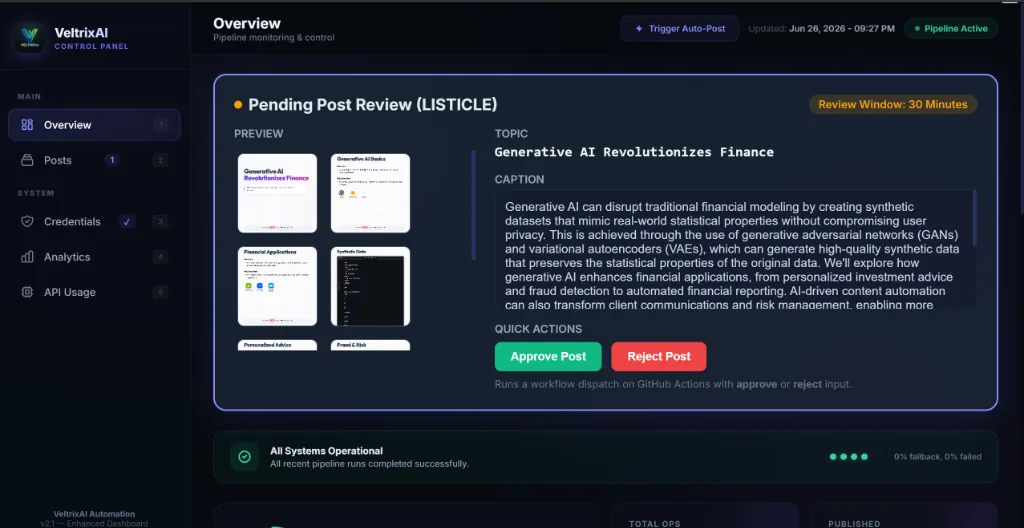
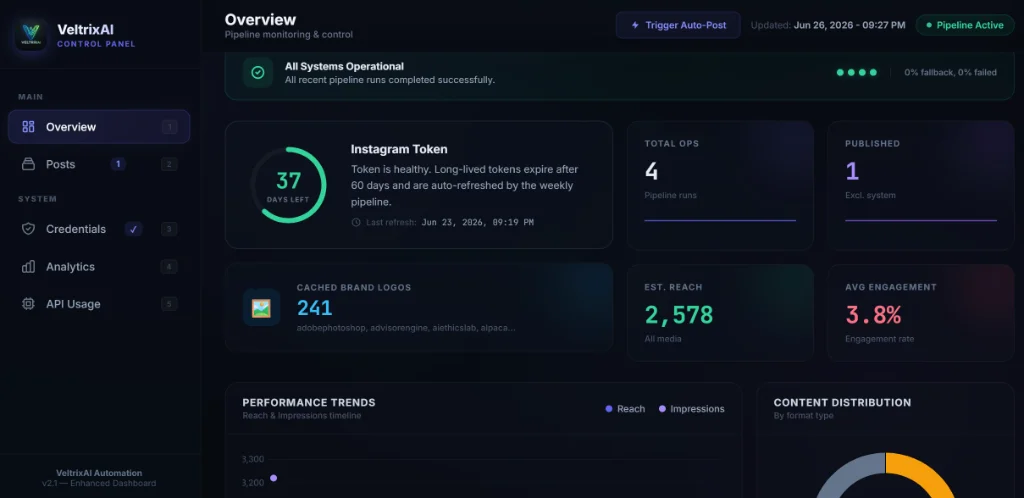
docs: replace Veltrix duplicate screenshots with highly compressed WebP Overview & Credentials screens

diff --git a/src/lib/project-details.ts b/src/lib/project-details.ts
@@ -394,7 +394,7 @@ export const PROJECT_DETAILS: Record<string, ProjectDetail> = {
     ],
     gallery: [
       { label: "Live Control Panel", img: "/veltrix-preview.webp" },
-      { label: "Pipeline Execution Logs", img: "/veltrix-logs-view.webp" },
+      { label: "Credential Health Board", img: "/veltrix-logs-view.webp" },
     ],
   },
   Vcentre: {

diff --git a/src/lib/site-data.ts b/src/lib/site-data.ts
@@ -97,7 +97,7 @@ export const PROJECTS: Project[] = [
     visualLabel: "pipeline.run",
     image: "/veltrix-preview.webp",
     secondaryImage: "/veltrix-logs-view.webp",
-    secondaryLabel: "execution logs",
+    secondaryLabel: "credentials board",
   },
   {
     index: "03",